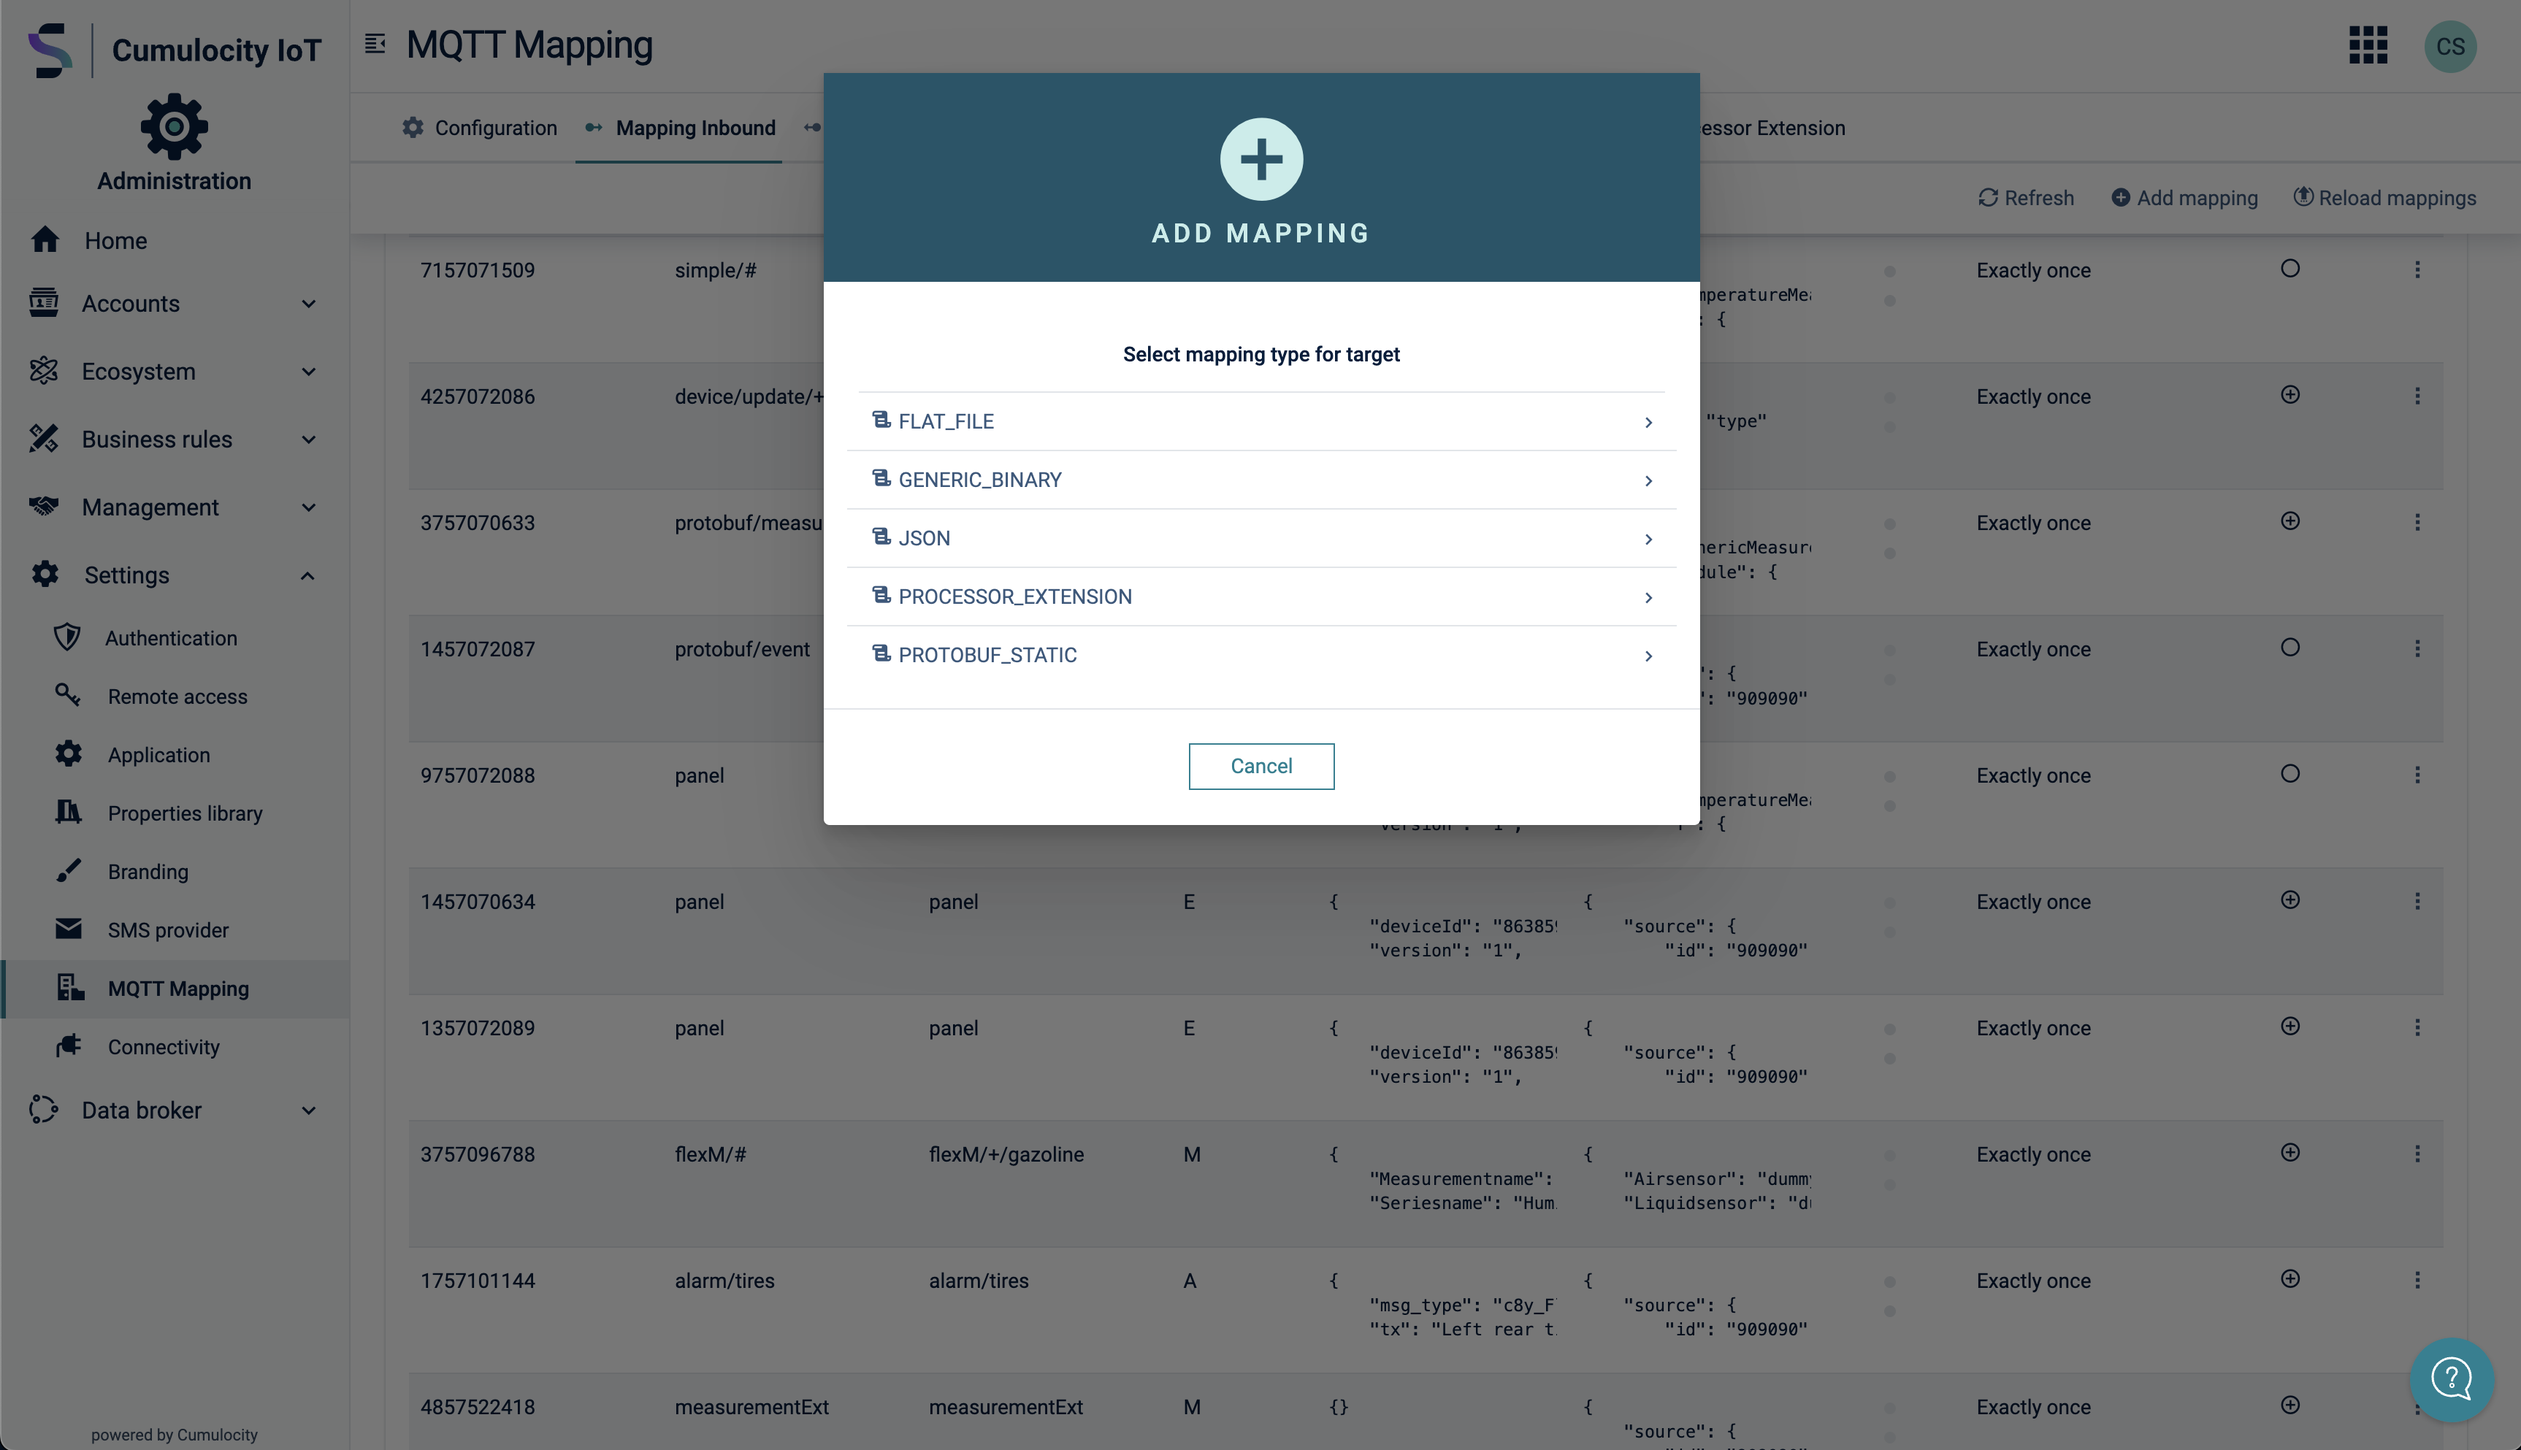
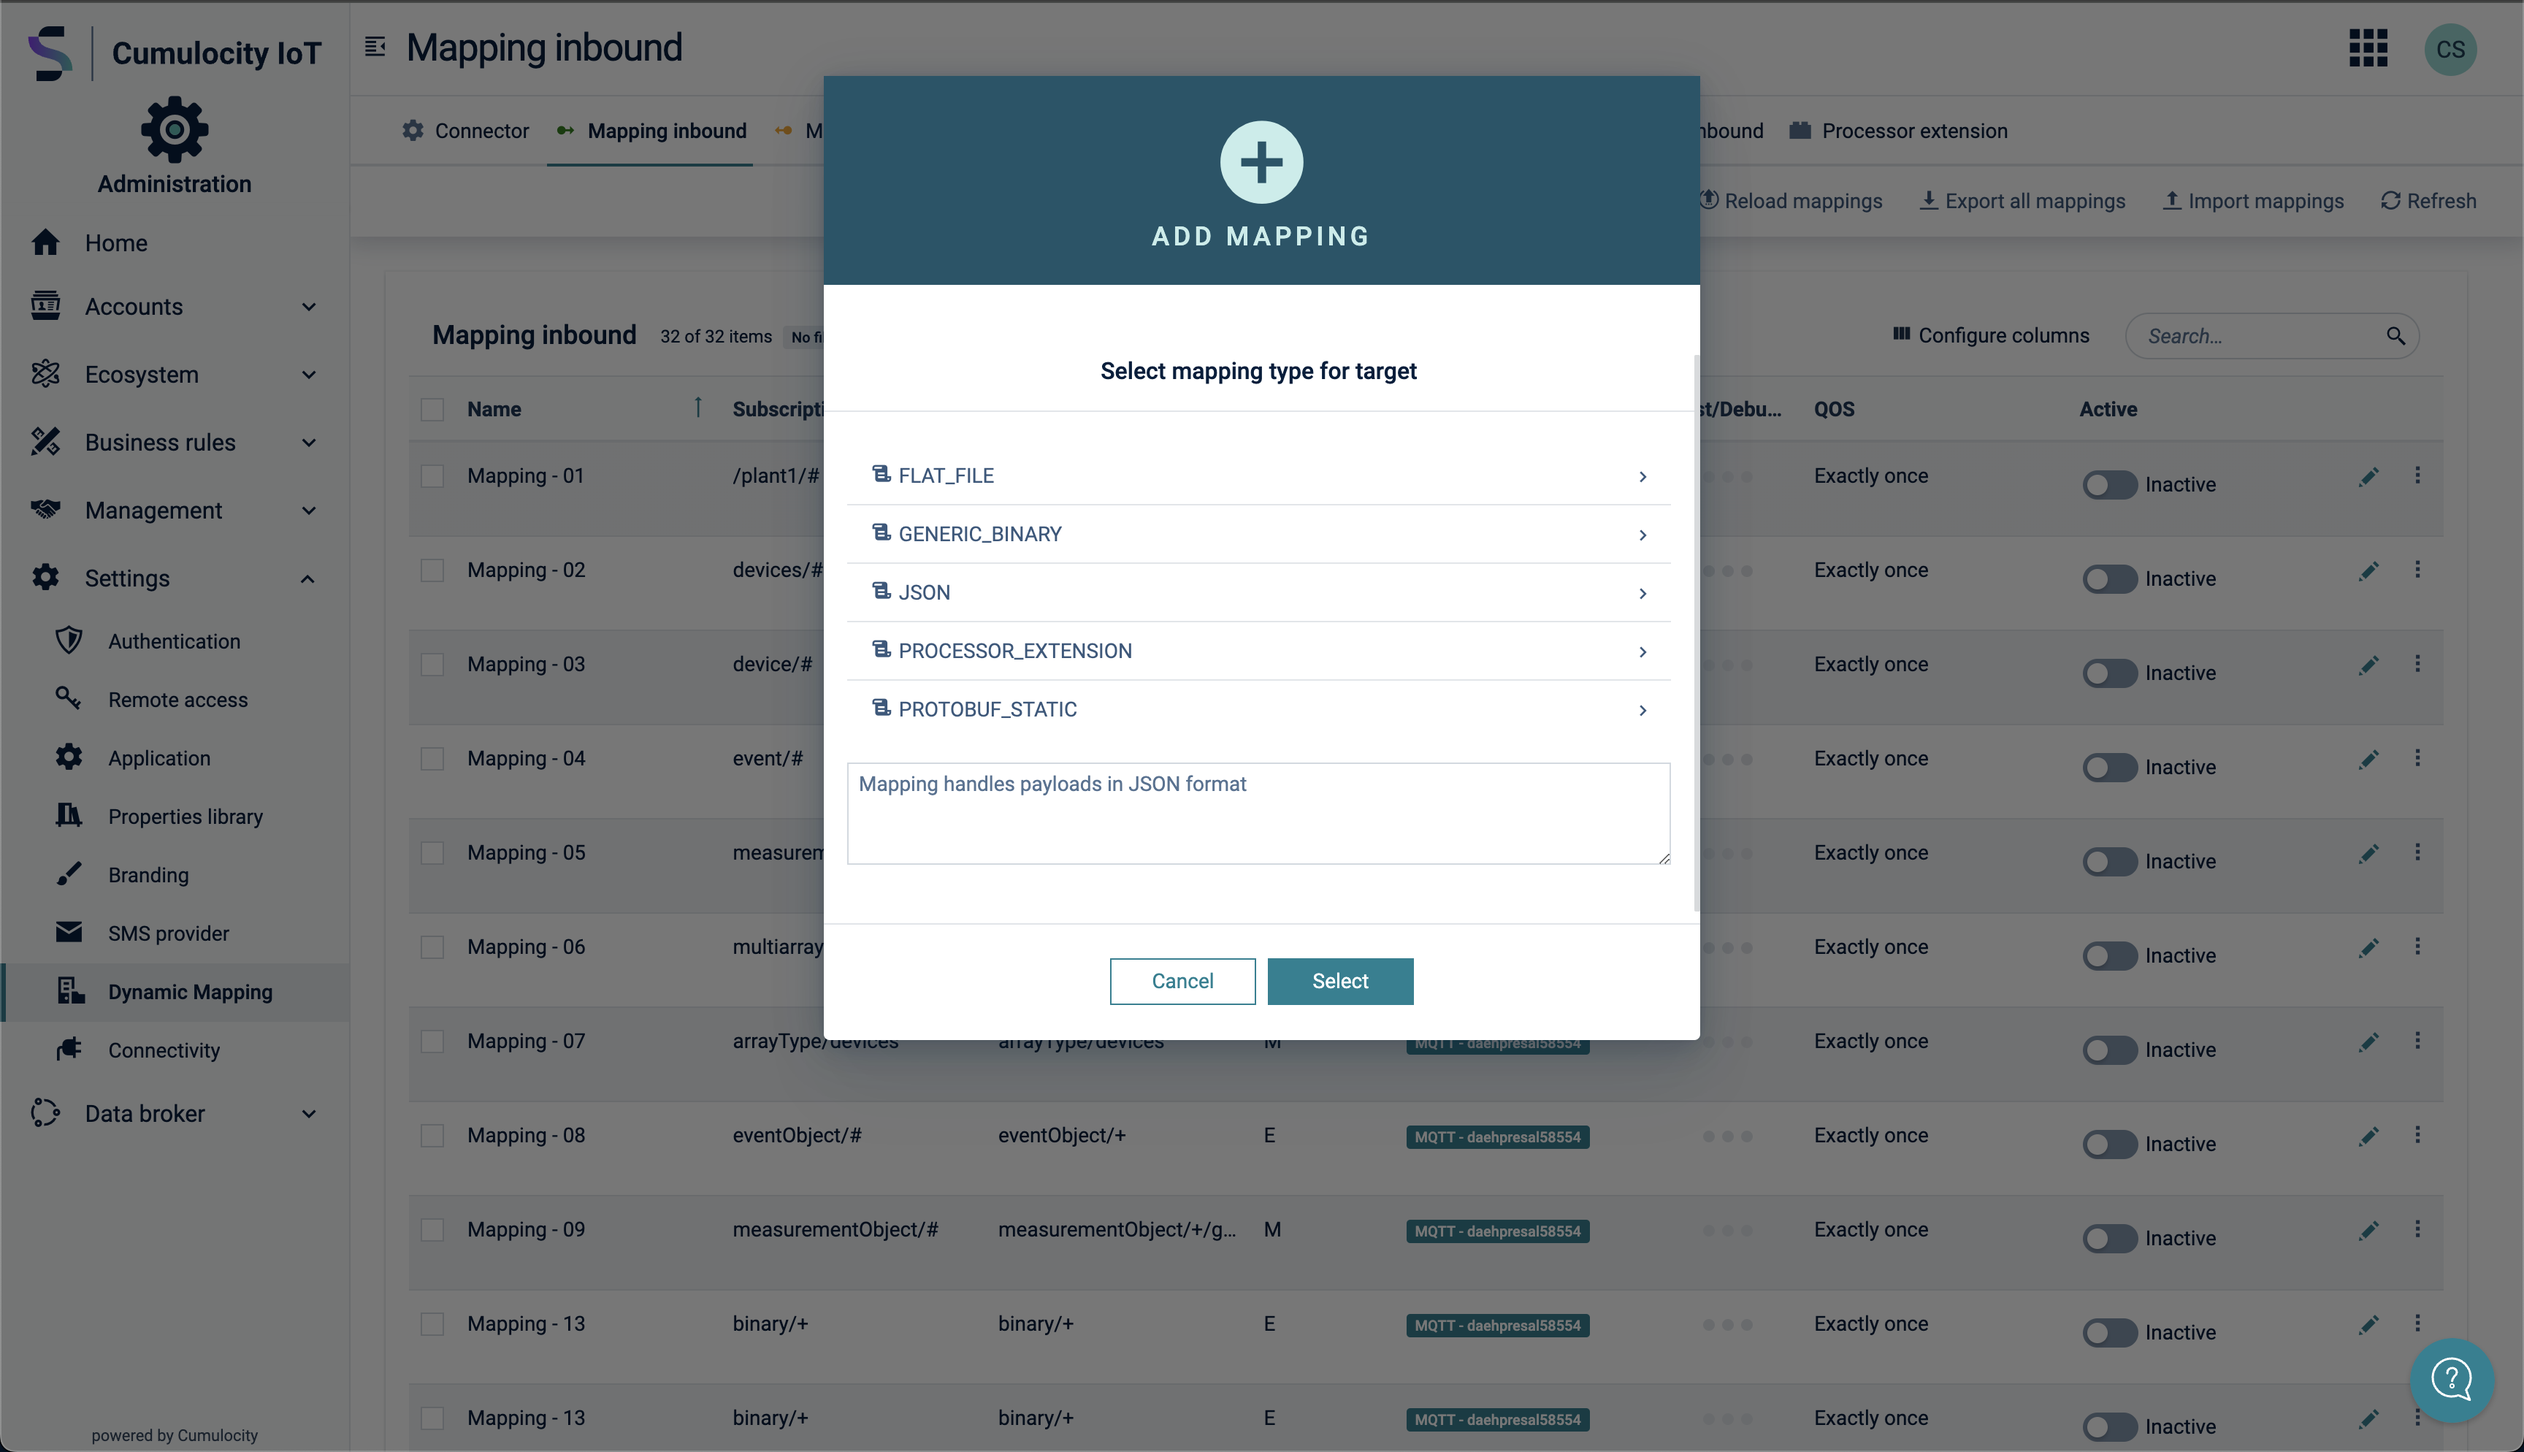
changed documentation

diff --git a/dynamic-mapping-ui/src/mapping/mapping-type/mapping-type.component.ts b/dynamic-mapping-ui/src/mapping/mapping-type/mapping-type.component.ts
@@ -20,6 +20,7 @@
  */
 import {
   Component,
+  ElementRef,
   Input,
   OnDestroy,
   OnInit,
@@ -29,7 +30,7 @@ import {
 import { FormBuilder, FormGroup, Validators } from '@angular/forms';
 import { C8yStepper, ModalLabels } from '@c8y/ngx-components';
 import { Subject } from 'rxjs';
-import { Direction, MappingType } from '../../shared';
+import { Direction, MAPPING_TYPE_DESCRIPTION, MappingType } from '../../shared';
 import { isDisabled } from '../shared/util';
 
 @Component({
@@ -39,18 +40,33 @@ import { isDisabled } from '../shared/util';
 })
 export class MappingTypeComponent implements OnInit, OnDestroy {
   @Input() direction: Direction;
+  @ViewChild('mappingTypes') mappingTypesElement: ElementRef;
 
   isDisabled = isDisabled;
   formGroupStep: FormGroup;
   @ViewChild(C8yStepper, { static: true }) closeSubject: Subject<MappingType>;
-  labels: ModalLabels = { cancel: 'Cancel' };
+  labels: ModalLabels = { ok: 'Select', cancel: 'Cancel' };
   canOpenInBrowser: boolean = false;
   errorMessage: string;
   MappingType = MappingType;
   Direction = Direction;
   mappingType: MappingType.JSON;
+  mappingTypeDescription: string =
+    MAPPING_TYPE_DESCRIPTION[MappingType.JSON].description;
 
-  constructor(private fb: FormBuilder) {}
+  constructor(
+    private fb: FormBuilder,
+    private elementRef: ElementRef
+  ) {
+    this.elementRef = elementRef;
+  }
+
+//   ngAfterViewInit(): void {
+//     const selector = `button[title=${MappingType.JSON}]`;
+//     const preSelectedMappingType =
+//       this.elementRef.nativeElement.querySelector(selector);
+//     preSelectedMappingType.click();
+//   }
 
   ngOnInit(): void {
     this.closeSubject = new Subject();
@@ -72,9 +88,14 @@ export class MappingTypeComponent implements OnInit, OnDestroy {
 
   onSelectMappingType(t) {
     this.mappingType = t;
-    this.closeSubject.next(this.mappingType);
-    this.closeSubject.complete();
+    this.mappingTypeDescription = MAPPING_TYPE_DESCRIPTION[t].description;
   }
+
+  //   onSelectMappingType(t) {
+  //     this.mappingType = t;
+  //     this.closeSubject.next(this.mappingType);
+  //     this.closeSubject.complete();
+  //   }
 
   ngOnDestroy() {
     this.closeSubject.complete();

diff --git a/dynamic-mapping-ui/src/mapping/mapping-type/mapping-type.component.html b/dynamic-mapping-ui/src/mapping/mapping-type/mapping-type.component.html
@@ -28,27 +28,35 @@
   (onClose)="onClose()"
   (onDismiss)="onDismiss()"
   [labels]="labels"
-  [disabled]="true"
+  [disabled]="false"
   #addMappingRef
 >
   <div>
-      <p class="p-b-24 text-center text-medium separator-bottom sticky-top bg-white">
-        {{ "Select mapping type for target" | translate }}
-      </p>
-      <div class="p-24 modal-inner-scroll animated fadeIn">
-        <div class="list-group list-group-links" [formGroup]="formGroupStep">
-          <ng-container *ngFor="let q of MappingType | keyvalue">
-            <button
-              *ngIf="direction !== Direction.OUTBOUND || q.value === 'JSON'"
-              class="list-group-item"
-              title="{{ q.value }}"
-              (click)="onSelectMappingType(q.value)"
-            >
-              <i [c8yIcon]="'rules m-r-4'"></i>
-              <span>{{ q.value }}</span>
-            </button>
-          </ng-container>
-        </div>
+    <p
+      class="p-b-16 text-center text-medium text-16 separator-bottom sticky-top bg-white"
+    >
+      {{ 'Select mapping type for target' | translate }}
+    </p>
+    <div class="p-24 modal-inner-scroll animated fadeIn">
+      <div #mappingTypes class="list-group list-group-links" [formGroup]="formGroupStep">
+        <ng-container *ngFor="let q of MappingType | keyvalue">
+          <button
+            *ngIf="direction !== Direction.OUTBOUND || q.value === 'JSON'"
+            class="list-group-item"
+            title="{{ q.value }}"
+            (click)="onSelectMappingType(q.value)"
+          >
+            <i [c8yIcon]="'rules m-r-4'"></i>
+            <span>{{ q.value }}</span>
+          </button>
+        </ng-container>
       </div>
+      <c8y-form-group class="p-t-16">
+        <!-- <label>Mapping type description</label> -->
+        <textarea readonly rows="3" class="form-control fit-w">{{
+          mappingTypeDescription
+        }}</textarea>
+      </c8y-form-group>
+    </div>
   </div>
 </c8y-modal>

diff --git a/dynamic-mapping-ui/src/shared/model/shared.model.ts b/dynamic-mapping-ui/src/shared/model/shared.model.ts
@@ -114,6 +114,19 @@ export enum MappingType {
   PROCESSOR_EXTENSION = 'PROCESSOR_EXTENSION'
 }
 
+export interface MappingTypeDescriptionInterface {
+  key: MappingType;
+  description: string;
+}
+
+export const MAPPING_TYPE_DESCRIPTION : Record <MappingType, MappingTypeDescriptionInterface> = {
+    [MappingType.JSON]: {key: MappingType.JSON , description: 'Mapping handles payloads in JSON format'},
+    [MappingType.FLAT_FILE]: {key: MappingType.FLAT_FILE , description: 'Mapping handles payloads in CSV format'},
+    [MappingType.GENERIC_BINARY]: {key: MappingType.GENERIC_BINARY , description: 'Mapping handles payloads in hex format. In the mapper the incoming hexadecimal payload is decoded as hexadecimal string with a leading "0x"'},
+    [MappingType.PROTOBUF_STATIC]: {key: MappingType.PROTOBUF_STATIC , description: 'Mapping handles payloads in protobuf format'},
+    [MappingType.PROCESSOR_EXTENSION]: {key: MappingType.PROCESSOR_EXTENSION , description: 'Mapping handles payloads in custom format. It can be used if you want to process the message yourself. This requires that a custom processor extension in Java is implemented and uploaded through the "Processor extension" tab'},
+};
+
 export interface Extension {
   id?: string;
   name: string;

diff --git a/dynamic-mapping-ui/src/mapping/step-one/mapping-properties.component.html b/dynamic-mapping-ui/src/mapping/step-one/mapping-properties.component.html
@@ -30,7 +30,7 @@
             class="label label-primary"
             >{{ "Read Only" }}</span
           >
-          <span
+          <!-- <span
             class="hidden-xs hidden-sm m-l-4"
             *ngIf="stepperConfiguration.editorMode === EditorMode.READ_ONLY"
           >
@@ -48,7 +48,26 @@
             >
               <i c8yIcon="question-circle-o"></i>
             </button>
-          </span>
+          </span> -->
+
+          <span
+          class="hidden-xs hidden-sm m-l-4"
+        >
+          <ng-template #popReadOnly
+            >To edit this mapping deactivate the mapping first in mapping
+            list.
+          </ng-template>
+          <button
+            class="btn-clean text-primary"
+            [popover]="popReadOnly"
+            popoverTitle="Read Only"
+            placement="right"
+            triggers="focus"
+            type="button"
+          >
+            <i c8yIcon="question-circle-o"></i>
+          </button>
+        </span>
         </div>
       </h4>
     </div>

diff --git a/README.md b/README.md
@@ -256,7 +256,7 @@ Further example for JSONata expressions are:
 
 Creation of the new mapping starts by pressing `Add Mapping`. On the next modal UI you can choose the mapping type depending on the structure of your payload. Currently there is support for:
 1. `JSON`: if your payload is in JSON format
-1. `FLAT_FILE`: if your payload is in a csv format
+1. `FLAT_FILE`: if your payload is in a CSV format
 1. `GENERIC_BINARY`: if your payload is in HEX format
 1. `PROTOBUF_STATIC`: if your payload is a serialized protobuf message
 1. `PROCESSOR_EXTENSION`: if you want to process the message yourself, by registering a processor extension
